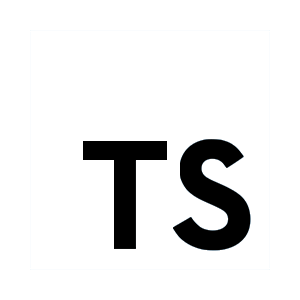
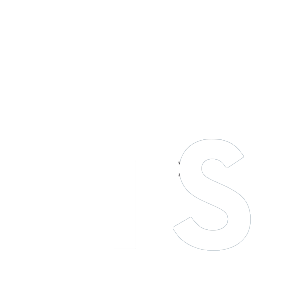
fix: centering

Changed region(s): [[0.57, 0.45, 0.84, 0.84], [0.27, 0.45, 0.57, 0.84]]

diff --git a/docs/_astro/about.69c52856.css b/docs/_astro/about.69c52856.css
@@ -1,0 +1,1 @@
+*,:before,:after{box-sizing:border-box;border-width:0;border-style:solid;border-color:#e5e7eb}:before,:after{--tw-content: ""}html{line-height:1.5;-webkit-text-size-adjust:100%;-moz-tab-size:4;-o-tab-size:4;tab-size:4;font-family:ui-sans-serif,system-ui,-apple-system,BlinkMacSystemFont,Segoe UI,Roboto,Helvetica Neue,Arial,Noto Sans,sans-serif,"Apple Color Emoji","Segoe UI Emoji",Segoe UI Symbol,"Noto Color Emoji";font-feature-settings:normal}body{margin:0;line-height:inherit}hr{height:0;color:inherit;border-top-width:1px}abbr:where([title]){-webkit-text-decoration:underline dotted;text-decoration:underline dotted}h1,h2,h3,h4,h5,h6{font-size:inherit;font-weight:inherit}a{color:inherit;text-decoration:inherit}b,strong{font-weight:bolder}code,kbd,samp,pre{font-family:MajorMono,monospace;font-size:1em}small{font-size:80%}sub,sup{font-size:75%;line-height:0;position:relative;vertical-align:baseline}sub{bottom:-.25em}sup{top:-.5em}table{text-indent:0;border-color:inherit;border-collapse:collapse}button,input,optgroup,select,textarea{font-family:inherit;font-size:100%;font-weight:inherit;line-height:inherit;color:inherit;margin:0;padding:0}button,select{text-transform:none}button,[type=button],[type=reset],[type=submit]{-webkit-appearance:button;background-color:transparent;background-image:none}:-moz-focusring{outline:auto}:-moz-ui-invalid{box-shadow:none}progress{vertical-align:baseline}::-webkit-inner-spin-button,::-webkit-outer-spin-button{height:auto}[type=search]{-webkit-appearance:textfield;outline-offset:-2px}::-webkit-search-decoration{-webkit-appearance:none}::-webkit-file-upload-button{-webkit-appearance:button;font:inherit}summary{display:list-item}blockquote,dl,dd,h1,h2,h3,h4,h5,h6,hr,figure,p,pre{margin:0}fieldset{margin:0;padding:0}legend{padding:0}ol,ul,menu{list-style:none;margin:0;padding:0}textarea{resize:vertical}input::-moz-placeholder,textarea::-moz-placeholder{opacity:1;color:#9ca3af}input::placeholder,textarea::placeholder{opacity:1;color:#9ca3af}button,[role=button]{cursor:pointer}:disabled{cursor:default}img,svg,video,canvas,audio,iframe,embed,object{display:block;vertical-align:middle}img,video{max-width:100%;height:auto}[hidden]{display:none}html{font-family:MajorMono,monospace;--tw-bg-opacity: 1;background-color:rgb(22 22 22 / var(--tw-bg-opacity));font-size:1.25rem;line-height:1.75rem;color:rgb(255 255 255 / var(--tw-text-opacity));--tw-text-opacity: .7;--tw-drop-shadow: drop-shadow(0px 0px 1px rgb(255 255 255 / 60%));filter:var(--tw-blur) var(--tw-brightness) var(--tw-contrast) var(--tw-grayscale) var(--tw-hue-rotate) var(--tw-invert) var(--tw-saturate) var(--tw-sepia) var(--tw-drop-shadow)}body{--tw-bg-opacity: 1;background-color:rgb(22 22 22 / var(--tw-bg-opacity))}code{font-family:monospace}*,:before,:after{--tw-border-spacing-x: 0;--tw-border-spacing-y: 0;--tw-translate-x: 0;--tw-translate-y: 0;--tw-rotate: 0;--tw-skew-x: 0;--tw-skew-y: 0;--tw-scale-x: 1;--tw-scale-y: 1;--tw-pan-x: ;--tw-pan-y: ;--tw-pinch-zoom: ;--tw-scroll-snap-strictness: proximity;--tw-ordinal: ;--tw-slashed-zero: ;--tw-numeric-figure: ;--tw-numeric-spacing: ;--tw-numeric-fraction: ;--tw-ring-inset: ;--tw-ring-offset-width: 0px;--tw-ring-offset-color: #fff;--tw-ring-color: rgb(59 130 246 / .5);--tw-ring-offset-shadow: 0 0 #0000;--tw-ring-shadow: 0 0 #0000;--tw-shadow: 0 0 #0000;--tw-shadow-colored: 0 0 #0000;--tw-blur: ;--tw-brightness: ;--tw-contrast: ;--tw-grayscale: ;--tw-hue-rotate: ;--tw-invert: ;--tw-saturate: ;--tw-sepia: ;--tw-drop-shadow: ;--tw-backdrop-blur: ;--tw-backdrop-brightness: ;--tw-backdrop-contrast: ;--tw-backdrop-grayscale: ;--tw-backdrop-hue-rotate: ;--tw-backdrop-invert: ;--tw-backdrop-opacity: ;--tw-backdrop-saturate: ;--tw-backdrop-sepia: }::backdrop{--tw-border-spacing-x: 0;--tw-border-spacing-y: 0;--tw-translate-x: 0;--tw-translate-y: 0;--tw-rotate: 0;--tw-skew-x: 0;--tw-skew-y: 0;--tw-scale-x: 1;--tw-scale-y: 1;--tw-pan-x: ;--tw-pan-y: ;--tw-pinch-zoom: ;--tw-scroll-snap-strictness: proximity;--tw-ordinal: ;--tw-slashed-zero: ;--tw-numeric-figure: ;--tw-numeric-spacing: ;--tw-numeric-fraction: ;--tw-ring-inset: ;--tw-ring-offset-width: 0px;--tw-ring-offset-color: #fff;--tw-ring-color: rgb(59 130 246 / .5);--tw-ring-offset-shadow: 0 0 #0000;--tw-ring-shadow: 0 0 #0000;--tw-shadow: 0 0 #0000;--tw-shadow-colored: 0 0 #0000;--tw-blur: ;--tw-brightness: ;--tw-contrast: ;--tw-grayscale: ;--tw-hue-rotate: ;--tw-invert: ;--tw-saturate: ;--tw-sepia: ;--tw-drop-shadow: ;--tw-backdrop-blur: ;--tw-backdrop-brightness: ;--tw-backdrop-contrast: ;--tw-backdrop-grayscale: ;--tw-backdrop-hue-rotate: ;--tw-backdrop-invert: ;--tw-backdrop-opacity: ;--tw-backdrop-saturate: ;--tw-backdrop-sepia: }.fixed{position:fixed}.absolute{position:absolute}.relative{position:relative}.left-0{left:0}.left-\[16px\]{left:16px}.top-0{top:0}.top-\[19px\]{top:19px}.-mt-1{margin-top:-.25rem}.mb-auto{margin-bottom:auto}.mr-1{margin-right:.25rem}.mt-auto{margin-top:auto}.flex{display:flex}.hidden{display:none}.h-32{height:8rem}.h-full{height:100%}.min-h-full{min-height:100%}.w-full{width:100%}.max-w-\[640px\]{max-width:640px}.cursor-pointer{cursor:pointer}.select-none{-webkit-user-select:none;-moz-user-select:none;user-select:none}.flex-row{flex-direction:row}.flex-col{flex-direction:column}.items-center{align-items:center}.justify-center{justify-content:center}.justify-between{justify-content:space-between}.gap-16{gap:4rem}.gap-4{gap:1rem}.space-y-2>:not([hidden])~:not([hidden]){--tw-space-y-reverse: 0;margin-top:calc(.5rem * calc(1 - var(--tw-space-y-reverse)));margin-bottom:calc(.5rem * var(--tw-space-y-reverse))}.overflow-scroll{overflow:scroll}.rounded-full{border-radius:9999px}.border-y-2{border-top-width:2px;border-bottom-width:2px}.border-r-\[1px\]{border-right-width:1px}.border-t-0{border-top-width:0px}.border-gray-300{--tw-border-opacity: 1;border-color:rgb(209 213 219 / var(--tw-border-opacity))}.border-transparent{border-color:transparent}.border-white{--tw-border-opacity: 1;border-color:rgb(255 255 255 / var(--tw-border-opacity))}.border-opacity-50{--tw-border-opacity: .5}.bg-primary{--tw-bg-opacity: 1;background-color:rgb(22 22 22 / var(--tw-bg-opacity))}.bg-gradient-to-b{background-image:linear-gradient(to bottom,var(--tw-gradient-stops))}.bg-gradient-to-t{background-image:linear-gradient(to top,var(--tw-gradient-stops))}.from-\[\#070707\]{--tw-gradient-from: #070707;--tw-gradient-to: rgb(7 7 7 / 0);--tw-gradient-stops: var(--tw-gradient-from), var(--tw-gradient-to)}.via-primary{--tw-gradient-to: rgb(22 22 22 / 0);--tw-gradient-stops: var(--tw-gradient-from), #161616, var(--tw-gradient-to)}.to-transparent{--tw-gradient-to: transparent}.p-5{padding:1.25rem}.p-8{padding:2rem}.px-4{padding-left:1rem;padding-right:1rem}.px-6{padding-left:1.5rem;padding-right:1.5rem}.px-8{padding-left:2rem;padding-right:2rem}.py-16{padding-top:4rem;padding-bottom:4rem}.py-3{padding-top:.75rem;padding-bottom:.75rem}.py-4{padding-top:1rem;padding-bottom:1rem}.pb-1{padding-bottom:.25rem}.pb-12{padding-bottom:3rem}.pb-3{padding-bottom:.75rem}.pt-16{padding-top:4rem}.pt-20{padding-top:5rem}.text-center{text-align:center}.align-middle{vertical-align:middle}.font-mono{font-family:MajorMono,monospace}.text-4xl{font-size:2.25rem;line-height:2.5rem}.text-5xl{font-size:3rem;line-height:1}.text-base{font-size:1rem;line-height:1.5rem}.text-lg{font-size:1.125rem;line-height:1.75rem}.text-xl{font-size:1.25rem;line-height:1.75rem}.font-bold{font-weight:700}.font-extralight{font-weight:200}.lowercase{text-transform:lowercase}.tracking-tighter{letter-spacing:-.05em}.text-gray-600{--tw-text-opacity: 1;color:rgb(75 85 99 / var(--tw-text-opacity))}.text-white{--tw-text-opacity: 1;color:rgb(255 255 255 / var(--tw-text-opacity))}.opacity-0{opacity:0}.drop-shadow-glowM{--tw-drop-shadow: drop-shadow(0px 0px 3px rgb(255 255 255 / 90%));filter:var(--tw-blur) var(--tw-brightness) var(--tw-contrast) var(--tw-grayscale) var(--tw-hue-rotate) var(--tw-invert) var(--tw-saturate) var(--tw-sepia) var(--tw-drop-shadow)}.drop-shadow-glowS{--tw-drop-shadow: drop-shadow(0px 0px 1px rgb(255 255 255 / 60%));filter:var(--tw-blur) var(--tw-brightness) var(--tw-contrast) var(--tw-grayscale) var(--tw-hue-rotate) var(--tw-invert) var(--tw-saturate) var(--tw-sepia) var(--tw-drop-shadow)}.transition-all{transition-property:all;transition-timing-function:cubic-bezier(.4,0,.2,1);transition-duration:.15s}.duration-200{transition-duration:.2s}.duration-500{transition-duration:.5s}.glow-heavy{text-shadow:0px 0px 10px rgb(255 255 255 / 60%)}.\[text-shadow\:_1px_1px_2px_rgb\(255_255_255_\/_100\%\)\]{text-shadow:1px 1px 2px rgb(255 255 255 / 100%)}@font-face{font-family:Nunito;font-display:swap;src:url(/fonts/nunito.ttf) format("truetype");font-weight:100 900}@font-face{font-family:MajorMono;font-display:swap;src:url(/fonts/majormono.ttf) format("truetype");font-weight:100 900}.last\:mr-0:last-child{margin-right:0}.last\:hidden:last-child{display:none}.hover\:bg-red-700:hover{--tw-bg-opacity: 1;background-color:rgb(185 28 28 / var(--tw-bg-opacity))}.hover\:text-primary:hover{--tw-text-opacity: 1;color:rgb(22 22 22 / var(--tw-text-opacity))}.group:hover .group-hover\:border-white{--tw-border-opacity: 1;border-color:rgb(255 255 255 / var(--tw-border-opacity))}.group:hover .group-hover\:border-opacity-70{--tw-border-opacity: .7}.group:hover .group-hover\:from-gray-600{--tw-gradient-from: #4b5563;--tw-gradient-to: rgb(75 85 99 / 0);--tw-gradient-stops: var(--tw-gradient-from), var(--tw-gradient-to)}.group:hover .group-hover\:px-0{padding-left:0;padding-right:0}.group:hover .group-hover\:text-black{--tw-text-opacity: 1;color:rgb(0 0 0 / var(--tw-text-opacity))}.group:hover .group-hover\:opacity-0{opacity:0}.group:hover .group-hover\:opacity-100{opacity:1}@media (min-width: 420px){.xs\:border-b-2{border-bottom-width:2px}.xs\:px-8{padding-left:2rem;padding-right:2rem}.xs\:tracking-normal{letter-spacing:0em}}@media (min-width: 640px){.sm\:mr-3{margin-right:.75rem}.sm\:block{display:block}.sm\:hidden{display:none}.sm\:px-2{padding-left:.5rem;padding-right:.5rem}.sm\:pt-24{padding-top:6rem}.sm\:pt-32{padding-top:8rem}.sm\:text-5xl{font-size:3rem;line-height:1}}@media (min-width: 768px){.md\:mb-0{margin-bottom:0}.md\:px-4{padding-left:1rem;padding-right:1rem}.md\:text-6xl{font-size:3.75rem;line-height:1}}@media (min-width: 1024px){.lg\:max-w-5xl{max-width:64rem}.lg\:flex-row{flex-direction:row}.lg\:gap-32{gap:8rem}.lg\:p-8{padding:2rem}}

diff --git a/docs/skills/index.html b/docs/skills/index.html
@@ -8,51 +8,51 @@
     <meta name="generator" content="Astro v2.0.9">
     <meta name="description" content="Who is Kilian Gosewisch?">
     <title>Kilian Gosewisch</title>
-  <link rel="stylesheet" href="/_astro/about.34eb9ade.css" /></head>
-  <body class="relative pt-32 h-full">
-    <div class="fixed top-0 left-0 w-full flex justify-center pt-24 pb-12 md:mb-0 bg-gradient-to-b from-[#070707] via-primary to-opacity">
+  <link rel="stylesheet" href="/_astro/about.69c52856.css" /></head>
+  <body class="relative pt-20 sm:pt-32 h-full flex justify-center overflow-scroll">
+    <div class="duration-500 fixed top-0 left-0 w-full flex justify-center pt-16 sm:pt-24 pb-12 md:mb-0 bg-gradient-to-b from-[#070707] via-primary to-opacity">
   <div class="flex flex-row max-w-[640px] w-full justify-between px-4 xs:px-8">
   <a class="cursor-pointer flex-column items-center group text-base" href="/">
-  <div class="duration-500 transition-all tracking-tighter xs:tracking-normal pb-1 drop-shadow-glowS text-white relative">
-    <div class="duration-500 group-hover:opacity-0 lowercase">
+  <div class="duration-500 transition-all tracking-tighter xs:tracking-normal pb-1 relative">
+    <div class="duration-500 group-hover:opacity-0 lowercase sm:px-2 drop-shadow-glowS">
       <span class="mr-1 sm:mr-3 last:mr-0">Home</span>
     </div>
-    <div class="flex justify-center duration-500 opacity-0 group-hover:opacity-100 top-0 left-0 absolute w-full h-full">
+    <div class="flex text-white justify-center duration-500 opacity-0 group-hover:opacity-100 top-0 left-0 absolute w-full h-full drop-shadow-glowM">
       <span class="mr-1 sm:mr-3 last:mr-0">Home</span>
     </div>
   </div>
 
-  <div class="hidden sm:block duration-500 px-2 group-hover:px-0 opacity-0 group-hover:opacity-100">
+  <div class="hidden sm:block duration-500 group-hover:px-0 opacity-0 group-hover:opacity-100">
     <div class="transition-all duration-200 pb-3 -mt-1 xs:border-b-2 border-t-0 border-transparent group-hover:border-white group-hover:border-opacity-70 bg-gradient-to-t group-hover:from-gray-600 group-hover:text-black">
     </div>
   </div>
 </a>
 <span class="border-r-[1px] border-opacity-50 border-white sm:hidden last:hidden"></span><a class="cursor-pointer flex-column items-center group text-base" href="/skills">
-  <div class="duration-500 transition-all tracking-tighter xs:tracking-normal pb-1 drop-shadow-glowS text-white relative">
-    <div class="duration-500 group-hover:opacity-0 lowercase">
+  <div class="duration-500 transition-all tracking-tighter xs:tracking-normal pb-1 relative">
+    <div class="duration-500 group-hover:opacity-0 lowercase sm:px-2 drop-shadow-glowS">
       <span class="mr-1 sm:mr-3 last:mr-0">My</span><span class="mr-1 sm:mr-3 last:mr-0">skills</span>
     </div>
-    <div class="flex justify-center duration-500 opacity-0 group-hover:opacity-100 top-0 left-0 absolute w-full h-full">
+    <div class="flex text-white justify-center duration-500 opacity-0 group-hover:opacity-100 top-0 left-0 absolute w-full h-full drop-shadow-glowM">
       <span class="mr-1 sm:mr-3 last:mr-0">My</span><span class="mr-1 sm:mr-3 last:mr-0">skills</span>
     </div>
   </div>
 
-  <div class="hidden sm:block duration-500 px-2 group-hover:px-0 opacity-0 group-hover:opacity-100">
+  <div class="hidden sm:block duration-500 group-hover:px-0 opacity-0 group-hover:opacity-100">
     <div class="transition-all duration-200 pb-3 -mt-1 xs:border-b-2 border-t-0 border-transparent group-hover:border-white group-hover:border-opacity-70 bg-gradient-to-t group-hover:from-gray-600 group-hover:text-black">
     </div>
   </div>
 </a>
 <span class="border-r-[1px] border-opacity-50 border-white sm:hidden last:hidden"></span><a class="cursor-pointer flex-column items-center group text-base" href="/about">
-  <div class="duration-500 transition-all tracking-tighter xs:tracking-normal pb-1 drop-shadow-glowS text-white relative">
-    <div class="duration-500 group-hover:opacity-0 lowercase">
+  <div class="duration-500 transition-all tracking-tighter xs:tracking-normal pb-1 relative">
+    <div class="duration-500 group-hover:opacity-0 lowercase sm:px-2 drop-shadow-glowS">
       <span class="mr-1 sm:mr-3 last:mr-0">About</span><span class="mr-1 sm:mr-3 last:mr-0">me</span>
     </div>
-    <div class="flex justify-center duration-500 opacity-0 group-hover:opacity-100 top-0 left-0 absolute w-full h-full">
+    <div class="flex text-white justify-center duration-500 opacity-0 group-hover:opacity-100 top-0 left-0 absolute w-full h-full drop-shadow-glowM">
       <span class="mr-1 sm:mr-3 last:mr-0">About</span><span class="mr-1 sm:mr-3 last:mr-0">me</span>
     </div>
   </div>
 
-  <div class="hidden sm:block duration-500 px-2 group-hover:px-0 opacity-0 group-hover:opacity-100">
+  <div class="hidden sm:block duration-500 group-hover:px-0 opacity-0 group-hover:opacity-100">
     <div class="transition-all duration-200 pb-3 -mt-1 xs:border-b-2 border-t-0 border-transparent group-hover:border-white group-hover:border-opacity-70 bg-gradient-to-t group-hover:from-gray-600 group-hover:text-black">
     </div>
   </div>
@@ -60,7 +60,7 @@
 <span class="border-r-[1px] border-opacity-50 border-white sm:hidden last:hidden"></span>
 </div>
 </div>
-    <div class="flex flex-col items-center justify-center min-h-full lg:max-w-5xl gap-16 lg:gap-32 py-16 px-8 md:px-4 overflow-hidden">
-      <img width="150px" src="/_astro/typescript_icon.60e61f45.png"><img width="150px" src="/_astro/nodejs_icon.fc44a250.png"><img width="150px" src="/_astro/reactjs_icon.0a3285b8.png"><img width="150px" src="/_astro/rust_icon.d4645c56.png">
+    <div class="flex flex-col mt-auto mb-auto align-middle justify-center min-h-full lg:max-w-5xl gap-16 lg:gap-32 py-16 px-8 md:px-4">
+      <img width="150px" src="/_astro/typescript_icon.4f91432e.png"><img width="150px" src="/_astro/nodejs_icon.fc44a250.png"><img width="150px" src="/_astro/reactjs_icon.0a3285b8.png"><img width="150px" src="/_astro/rust_icon.d4645c56.png">
     </div>
   </body></html>

diff --git a/docs/index.html b/docs/index.html
@@ -8,51 +8,51 @@
     <meta name="generator" content="Astro v2.0.9">
     <meta name="description" content="Who is Kilian Gosewisch?">
     <title>Kilian Gosewisch</title>
-  <link rel="stylesheet" href="/_astro/about.34eb9ade.css" /></head>
-  <body class="relative pt-32 h-full">
-    <div class="fixed top-0 left-0 w-full flex justify-center pt-24 pb-12 md:mb-0 bg-gradient-to-b from-[#070707] via-primary to-opacity">
+  <link rel="stylesheet" href="/_astro/about.69c52856.css" /></head>
+  <body class="relative pt-20 sm:pt-32 h-full flex justify-center overflow-scroll">
+    <div class="duration-500 fixed top-0 left-0 w-full flex justify-center pt-16 sm:pt-24 pb-12 md:mb-0 bg-gradient-to-b from-[#070707] via-primary to-opacity">
   <div class="flex flex-row max-w-[640px] w-full justify-between px-4 xs:px-8">
   <a class="cursor-pointer flex-column items-center group text-base" href="/">
-  <div class="duration-500 transition-all tracking-tighter xs:tracking-normal pb-1 drop-shadow-glowS text-white relative">
-    <div class="duration-500 group-hover:opacity-0 lowercase">
+  <div class="duration-500 transition-all tracking-tighter xs:tracking-normal pb-1 relative">
+    <div class="duration-500 group-hover:opacity-0 lowercase sm:px-2 drop-shadow-glowS">
       <span class="mr-1 sm:mr-3 last:mr-0">Home</span>
     </div>
-    <div class="flex justify-center duration-500 opacity-0 group-hover:opacity-100 top-0 left-0 absolute w-full h-full">
+    <div class="flex text-white justify-center duration-500 opacity-0 group-hover:opacity-100 top-0 left-0 absolute w-full h-full drop-shadow-glowM">
       <span class="mr-1 sm:mr-3 last:mr-0">Home</span>
     </div>
   </div>
 
-  <div class="hidden sm:block duration-500 px-2 group-hover:px-0 opacity-0 group-hover:opacity-100">
+  <div class="hidden sm:block duration-500 group-hover:px-0 opacity-0 group-hover:opacity-100">
     <div class="transition-all duration-200 pb-3 -mt-1 xs:border-b-2 border-t-0 border-transparent group-hover:border-white group-hover:border-opacity-70 bg-gradient-to-t group-hover:from-gray-600 group-hover:text-black">
     </div>
   </div>
 </a>
 <span class="border-r-[1px] border-opacity-50 border-white sm:hidden last:hidden"></span><a class="cursor-pointer flex-column items-center group text-base" href="/skills">
-  <div class="duration-500 transition-all tracking-tighter xs:tracking-normal pb-1 drop-shadow-glowS text-white relative">
-    <div class="duration-500 group-hover:opacity-0 lowercase">
+  <div class="duration-500 transition-all tracking-tighter xs:tracking-normal pb-1 relative">
+    <div class="duration-500 group-hover:opacity-0 lowercase sm:px-2 drop-shadow-glowS">
       <span class="mr-1 sm:mr-3 last:mr-0">My</span><span class="mr-1 sm:mr-3 last:mr-0">skills</span>
     </div>
-    <div class="flex justify-center duration-500 opacity-0 group-hover:opacity-100 top-0 left-0 absolute w-full h-full">
+    <div class="flex text-white justify-center duration-500 opacity-0 group-hover:opacity-100 top-0 left-0 absolute w-full h-full drop-shadow-glowM">
       <span class="mr-1 sm:mr-3 last:mr-0">My</span><span class="mr-1 sm:mr-3 last:mr-0">skills</span>
     </div>
   </div>
 
-  <div class="hidden sm:block duration-500 px-2 group-hover:px-0 opacity-0 group-hover:opacity-100">
+  <div class="hidden sm:block duration-500 group-hover:px-0 opacity-0 group-hover:opacity-100">
     <div class="transition-all duration-200 pb-3 -mt-1 xs:border-b-2 border-t-0 border-transparent group-hover:border-white group-hover:border-opacity-70 bg-gradient-to-t group-hover:from-gray-600 group-hover:text-black">
     </div>
   </div>
 </a>
 <span class="border-r-[1px] border-opacity-50 border-white sm:hidden last:hidden"></span><a class="cursor-pointer flex-column items-center group text-base" href="/about">
-  <div class="duration-500 transition-all tracking-tighter xs:tracking-normal pb-1 drop-shadow-glowS text-white relative">
-    <div class="duration-500 group-hover:opacity-0 lowercase">
+  <div class="duration-500 transition-all tracking-tighter xs:tracking-normal pb-1 relative">
+    <div class="duration-500 group-hover:opacity-0 lowercase sm:px-2 drop-shadow-glowS">
       <span class="mr-1 sm:mr-3 last:mr-0">About</span><span class="mr-1 sm:mr-3 last:mr-0">me</span>
     </div>
-    <div class="flex justify-center duration-500 opacity-0 group-hover:opacity-100 top-0 left-0 absolute w-full h-full">
+    <div class="flex text-white justify-center duration-500 opacity-0 group-hover:opacity-100 top-0 left-0 absolute w-full h-full drop-shadow-glowM">
       <span class="mr-1 sm:mr-3 last:mr-0">About</span><span class="mr-1 sm:mr-3 last:mr-0">me</span>
     </div>
   </div>
 
-  <div class="hidden sm:block duration-500 px-2 group-hover:px-0 opacity-0 group-hover:opacity-100">
+  <div class="hidden sm:block duration-500 group-hover:px-0 opacity-0 group-hover:opacity-100">
     <div class="transition-all duration-200 pb-3 -mt-1 xs:border-b-2 border-t-0 border-transparent group-hover:border-white group-hover:border-opacity-70 bg-gradient-to-t group-hover:from-gray-600 group-hover:text-black">
     </div>
   </div>
@@ -60,8 +60,8 @@
 <span class="border-r-[1px] border-opacity-50 border-white sm:hidden last:hidden"></span>
 </div>
 </div>
-    <div class="flex flex-col items-center justify-center min-h-full lg:max-w-5xl gap-16 lg:gap-32 py-16 px-8 md:px-4 overflow-hidden">
-      <div class="font-mono justify-center h-full lowercase gap-4 text-gray-300">
+    <div class="flex flex-col mt-auto mb-auto align-middle justify-center min-h-full lg:max-w-5xl gap-16 lg:gap-32 py-16 px-8 md:px-4">
+      <div class="font-mono lowercase">
     <div class="font-bold text-4xl sm:text-5xl md:text-6xl glow-heavy text-center">
       Kilian Gosewisch
     </div>

diff --git a/docs/about/index.html b/docs/about/index.html
@@ -8,51 +8,51 @@
     <meta name="generator" content="Astro v2.0.9">
     <meta name="description" content="Who is Kilian Gosewisch?">
     <title>Kilian Gosewisch</title>
-  <link rel="stylesheet" href="/_astro/about.34eb9ade.css" /></head>
-  <body class="relative pt-32 h-full">
-    <div class="fixed top-0 left-0 w-full flex justify-center pt-24 pb-12 md:mb-0 bg-gradient-to-b from-[#070707] via-primary to-opacity">
+  <link rel="stylesheet" href="/_astro/about.69c52856.css" /></head>
+  <body class="relative pt-20 sm:pt-32 h-full flex justify-center overflow-scroll">
+    <div class="duration-500 fixed top-0 left-0 w-full flex justify-center pt-16 sm:pt-24 pb-12 md:mb-0 bg-gradient-to-b from-[#070707] via-primary to-opacity">
   <div class="flex flex-row max-w-[640px] w-full justify-between px-4 xs:px-8">
   <a class="cursor-pointer flex-column items-center group text-base" href="/">
-  <div class="duration-500 transition-all tracking-tighter xs:tracking-normal pb-1 drop-shadow-glowS text-white relative">
-    <div class="duration-500 group-hover:opacity-0 lowercase">
+  <div class="duration-500 transition-all tracking-tighter xs:tracking-normal pb-1 relative">
+    <div class="duration-500 group-hover:opacity-0 lowercase sm:px-2 drop-shadow-glowS">
       <span class="mr-1 sm:mr-3 last:mr-0">Home</span>
     </div>
-    <div class="flex justify-center duration-500 opacity-0 group-hover:opacity-100 top-0 left-0 absolute w-full h-full">
+    <div class="flex text-white justify-center duration-500 opacity-0 group-hover:opacity-100 top-0 left-0 absolute w-full h-full drop-shadow-glowM">
       <span class="mr-1 sm:mr-3 last:mr-0">Home</span>
     </div>
   </div>
 
-  <div class="hidden sm:block duration-500 px-2 group-hover:px-0 opacity-0 group-hover:opacity-100">
+  <div class="hidden sm:block duration-500 group-hover:px-0 opacity-0 group-hover:opacity-100">
     <div class="transition-all duration-200 pb-3 -mt-1 xs:border-b-2 border-t-0 border-transparent group-hover:border-white group-hover:border-opacity-70 bg-gradient-to-t group-hover:from-gray-600 group-hover:text-black">
     </div>
   </div>
 </a>
 <span class="border-r-[1px] border-opacity-50 border-white sm:hidden last:hidden"></span><a class="cursor-pointer flex-column items-center group text-base" href="/skills">
-  <div class="duration-500 transition-all tracking-tighter xs:tracking-normal pb-1 drop-shadow-glowS text-white relative">
-    <div class="duration-500 group-hover:opacity-0 lowercase">
+  <div class="duration-500 transition-all tracking-tighter xs:tracking-normal pb-1 relative">
+    <div class="duration-500 group-hover:opacity-0 lowercase sm:px-2 drop-shadow-glowS">
       <span class="mr-1 sm:mr-3 last:mr-0">My</span><span class="mr-1 sm:mr-3 last:mr-0">skills</span>
     </div>
-    <div class="flex justify-center duration-500 opacity-0 group-hover:opacity-100 top-0 left-0 absolute w-full h-full">
+    <div class="flex text-white justify-center duration-500 opacity-0 group-hover:opacity-100 top-0 left-0 absolute w-full h-full drop-shadow-glowM">
       <span class="mr-1 sm:mr-3 last:mr-0">My</span><span class="mr-1 sm:mr-3 last:mr-0">skills</span>
     </div>
   </div>
 
-  <div class="hidden sm:block duration-500 px-2 group-hover:px-0 opacity-0 group-hover:opacity-100">
+  <div class="hidden sm:block duration-500 group-hover:px-0 opacity-0 group-hover:opacity-100">
     <div class="transition-all duration-200 pb-3 -mt-1 xs:border-b-2 border-t-0 border-transparent group-hover:border-white group-hover:border-opacity-70 bg-gradient-to-t group-hover:from-gray-600 group-hover:text-black">
     </div>
   </div>
 </a>
 <span class="border-r-[1px] border-opacity-50 border-white sm:hidden last:hidden"></span><a class="cursor-pointer flex-column items-center group text-base" href="/about">
-  <div class="duration-500 transition-all tracking-tighter xs:tracking-normal pb-1 drop-shadow-glowS text-white relative">
-    <div class="duration-500 group-hover:opacity-0 lowercase">
+  <div class="duration-500 transition-all tracking-tighter xs:tracking-normal pb-1 relative">
+    <div class="duration-500 group-hover:opacity-0 lowercase sm:px-2 drop-shadow-glowS">
       <span class="mr-1 sm:mr-3 last:mr-0">About</span><span class="mr-1 sm:mr-3 last:mr-0">me</span>
     </div>
-    <div class="flex justify-center duration-500 opacity-0 group-hover:opacity-100 top-0 left-0 absolute w-full h-full">
+    <div class="flex text-white justify-center duration-500 opacity-0 group-hover:opacity-100 top-0 left-0 absolute w-full h-full drop-shadow-glowM">
       <span class="mr-1 sm:mr-3 last:mr-0">About</span><span class="mr-1 sm:mr-3 last:mr-0">me</span>
     </div>
   </div>
 
-  <div class="hidden sm:block duration-500 px-2 group-hover:px-0 opacity-0 group-hover:opacity-100">
+  <div class="hidden sm:block duration-500 group-hover:px-0 opacity-0 group-hover:opacity-100">
     <div class="transition-all duration-200 pb-3 -mt-1 xs:border-b-2 border-t-0 border-transparent group-hover:border-white group-hover:border-opacity-70 bg-gradient-to-t group-hover:from-gray-600 group-hover:text-black">
     </div>
   </div>
@@ -60,7 +60,7 @@
 <span class="border-r-[1px] border-opacity-50 border-white sm:hidden last:hidden"></span>
 </div>
 </div>
-    <div class="flex flex-col items-center justify-center min-h-full lg:max-w-5xl gap-16 lg:gap-32 py-16 px-8 md:px-4 overflow-hidden">
+    <div class="flex flex-col mt-auto mb-auto align-middle justify-center min-h-full lg:max-w-5xl gap-16 lg:gap-32 py-16 px-8 md:px-4">
       <div class="text-white drop-shadow-glowS">foobar</div>
     </div>
   </body></html>

diff --git a/src/styles.css b/src/styles.css
@@ -21,7 +21,7 @@
     @apply font-mono;
     /* background-color: #111111; */
     @apply bg-primary;
-    @apply text-white text-opacity-50 text-xl drop-shadow-glowS;
+    @apply text-white text-opacity-70 text-xl drop-shadow-glowS;
   }
   body {
     @apply bg-primary;
